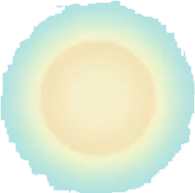
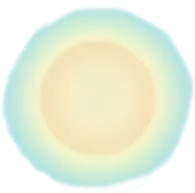
added moon
still need to improve on tick effect
need to implement night sky fade in and night tint of whole  pic

Changed region(s): [[0.0, 0.0, 1.0, 1.0]]

diff --git a/test1.html b/test1.html
@@ -12,49 +12,79 @@
 
 	$(document).ready(function () {
 		
+		//every second
 		setInterval(secTick, 1000);
-		setInterval(moveSun,1000);
+
+		//every minute
+		setInterval(toggleSky, 1000);
+
+		//every hour
+		setInterval(moveSunAndMoon, 500);
+
+		$("#skyDay img").fadeIn(250);
 
 	});
+	var curHour = 0;
+	var curMin = 0;
+	var curSec = 0;
+	var isDay = 1;
 
-	var secAngle = 0;
+	var secAngle = 1;
 	var secTick = function () {
 
 		$("#blades").rotate({
 			animateTo: secAngle,
-			duration: 1000,
+			duration: 500,
 		});
+
+		secAngle += 20;
+		//Todo: fix this secAngle %= 361;
+	}
+
+	curSkyDayFade = 1.0;
+	var toggleSky = function () {
+
+		if (isDay) {
+			//$("#skyDay").fadeTo("slow", 0.1);
+			curSkyDayFade -= 0.1;
+		}
 
 		secAngle += 20;
 	}
 	
-	var sunForwardX = [35, 79, 144, 223, 314, 424, 541, 654, 762, 857, 931, 1000, 1050];
-	var sunForwardY = [538, 419, 312, 222, 154, 107, 91, 107, 154, 222, 312, 419, 510];
-
 	//using 13 hrs for animation [0-12]
-	var curHour = 0;
 	var noOfHours = 12;
-	var moveAngle = 3;
-	var moveSun = function() {
+	var moveAngle = 5;
+	var moveSpeed = 200;
+	var sunForwardX = [35, 79, 144, 223, 314, 424, 541, 654, 762, 857, 931, 1000, 1050];
+	var sunForwardY = [510, 419, 312, 222, 154, 107, 91, 107, 154, 222, 312, 419, 510];
+	var moveSunAndMoon = function () {
+		//check if hour overflows if so flip day and night
+		if (curHour == noOfHours-1)
+			isDay = !isDay;
+
 		//increment hour and mod by no of hours to get next index to coordinates for sun
 		curHour++;
 		curHour %= noOfHours;
 
-			//normal case - just move sun
-			var bezier_params_forward = {
-				start: { x: sunForwardX[curHour], y: sunForwardY[curHour], angle: -moveAngle, length: 0.5 },
-				end: { x: sunForwardX[curHour + 1], y: sunForwardY[curHour + 1], angle: moveAngle, length: 0.5 }
-			}
-			$("#sun").animate({ path: new $.path.bezier(bezier_params_forward) }, 500);
+		var bezier_params_forward = {
+			start: { x: sunForwardX[curHour], y: sunForwardY[curHour], angle: -moveAngle, length: 0.5 },
+			end: { x: sunForwardX[curHour + 1], y: sunForwardY[curHour + 1], angle: moveAngle, length: 0.5 }
+		}
 
-		
-	//	$("#sun").animate({ path: new $.path.bezier(bezier_params_back)    }, 2000);
+		if (isDay)
+			$("#sun").animate({path: new $.path.bezier(bezier_params_forward)}, moveSpeed);
+		else
+			$("#moon").animate({path: new $.path.bezier(bezier_params_forward)}, moveSpeed);
 	}
 
 </script>
 <body>
 	<div id="canvas">
-		<div class="frame" id="daySky">
+		<div class="frame" id="skyDay">
+			<img src="imgs/skyDay.png" />
+		</div>
+		<div class="frame" id="skyNight">
 			<img src="imgs/skyDay.png" />
 		</div>
 		<div class="frame" id="bg">
@@ -65,6 +95,9 @@
 		</div>
 		<div class="frame" id="sun">
 			<img src="imgs/sun.png" />
+		</div>
+		<div class="frame" id="moon">
+			<img src="imgs/moon.png" />
 		</div>
 	</div>
 </body>

diff --git a/css/mlpstyle.css b/css/mlpstyle.css
@@ -7,17 +7,24 @@
 	position:	absolute;
 }
 #blades {
-	z-index:	30;
+	z-index:	40;
 	top:		530px;
 	left:		540px;
 }
 #bg {
+	z-index:	30;
+}
+#skyDay {
 	z-index:	20;
 }
-#daySky {
+#skyNight {
 	z-index:	10;
 }
 #sun {
-	z-index:	15;
+	z-index:	25;
+	top:		400px;
+}
+#moon {
+	z-index:	25;
 	top:		400px;
 }
